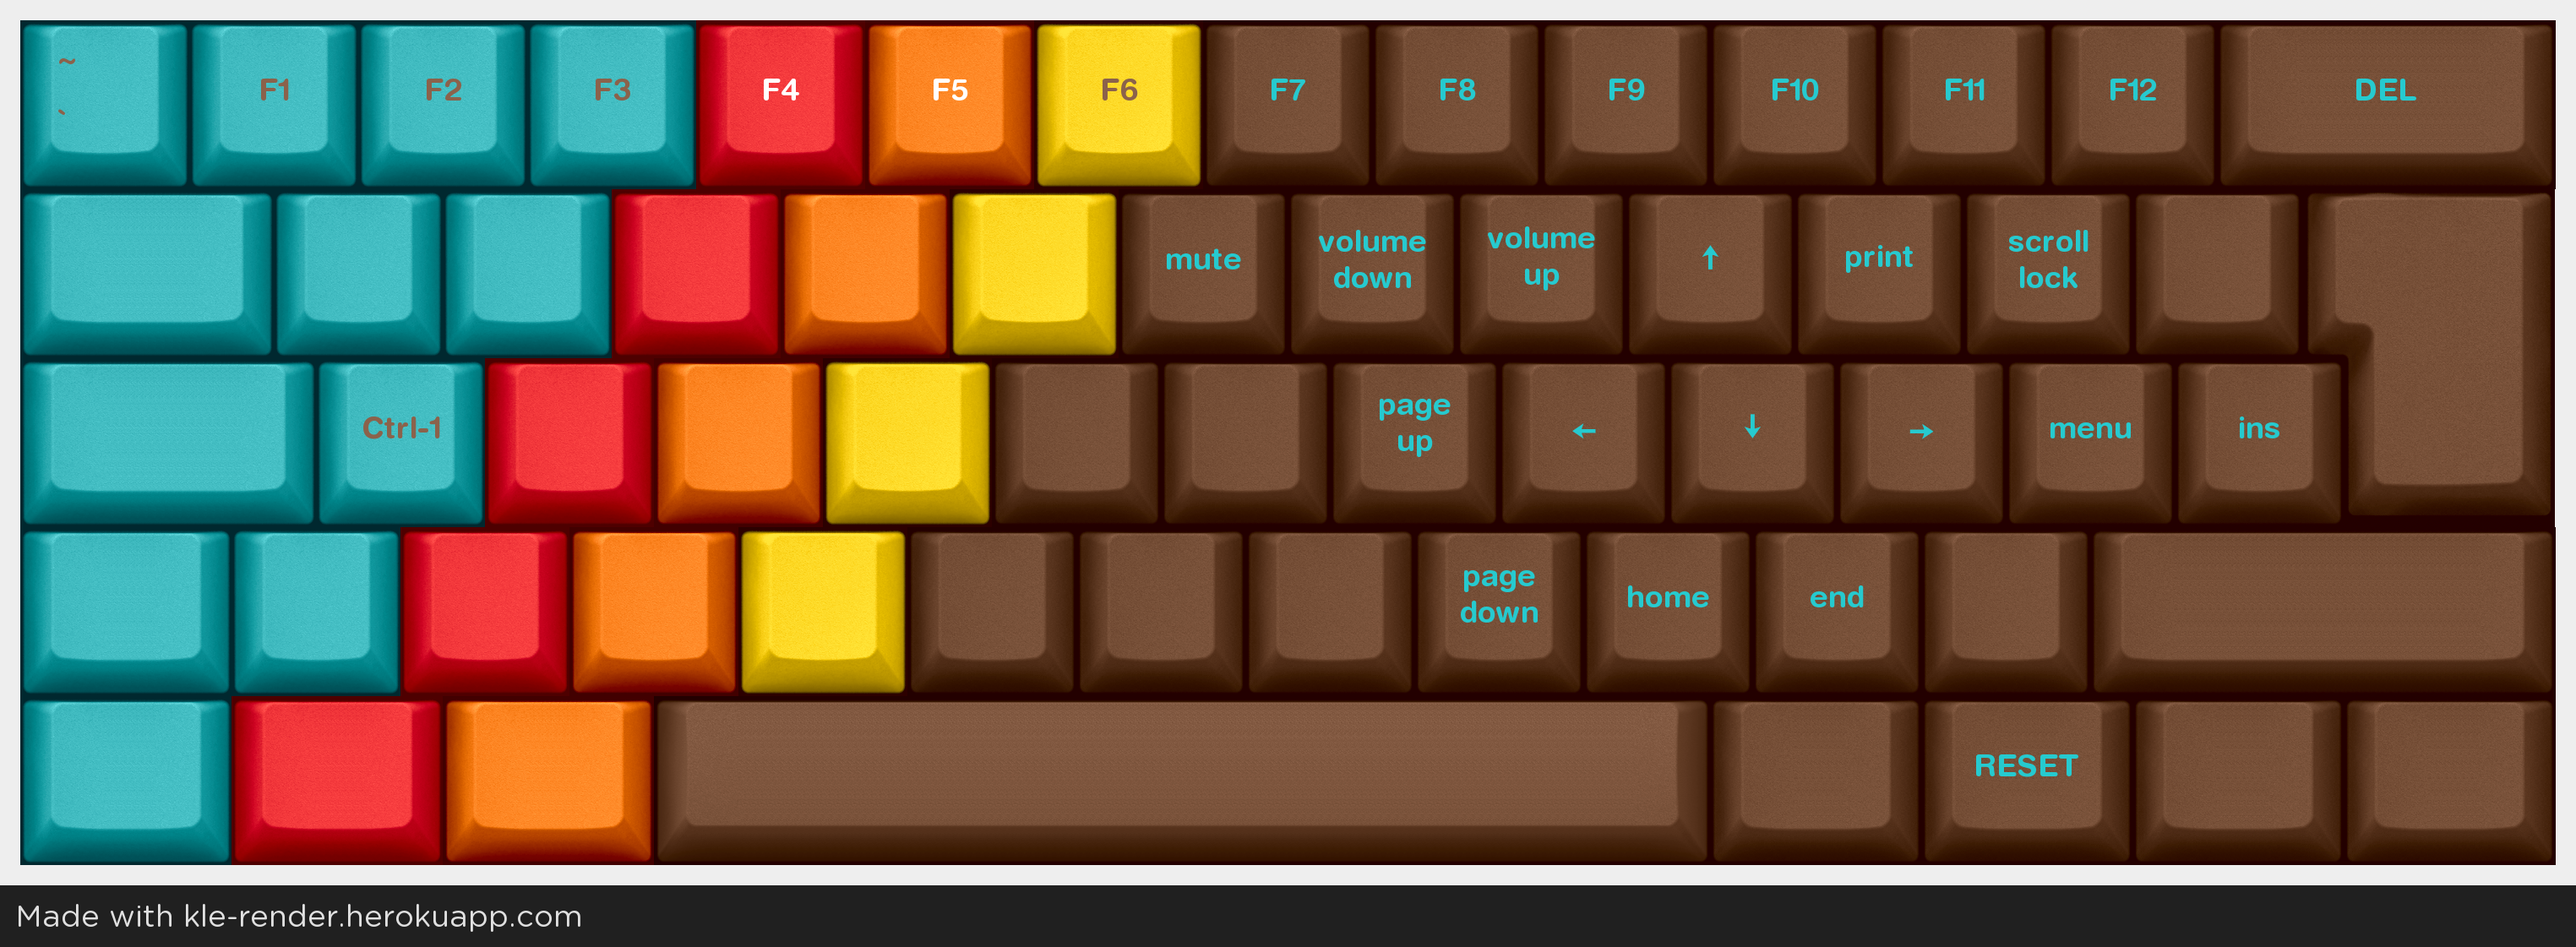
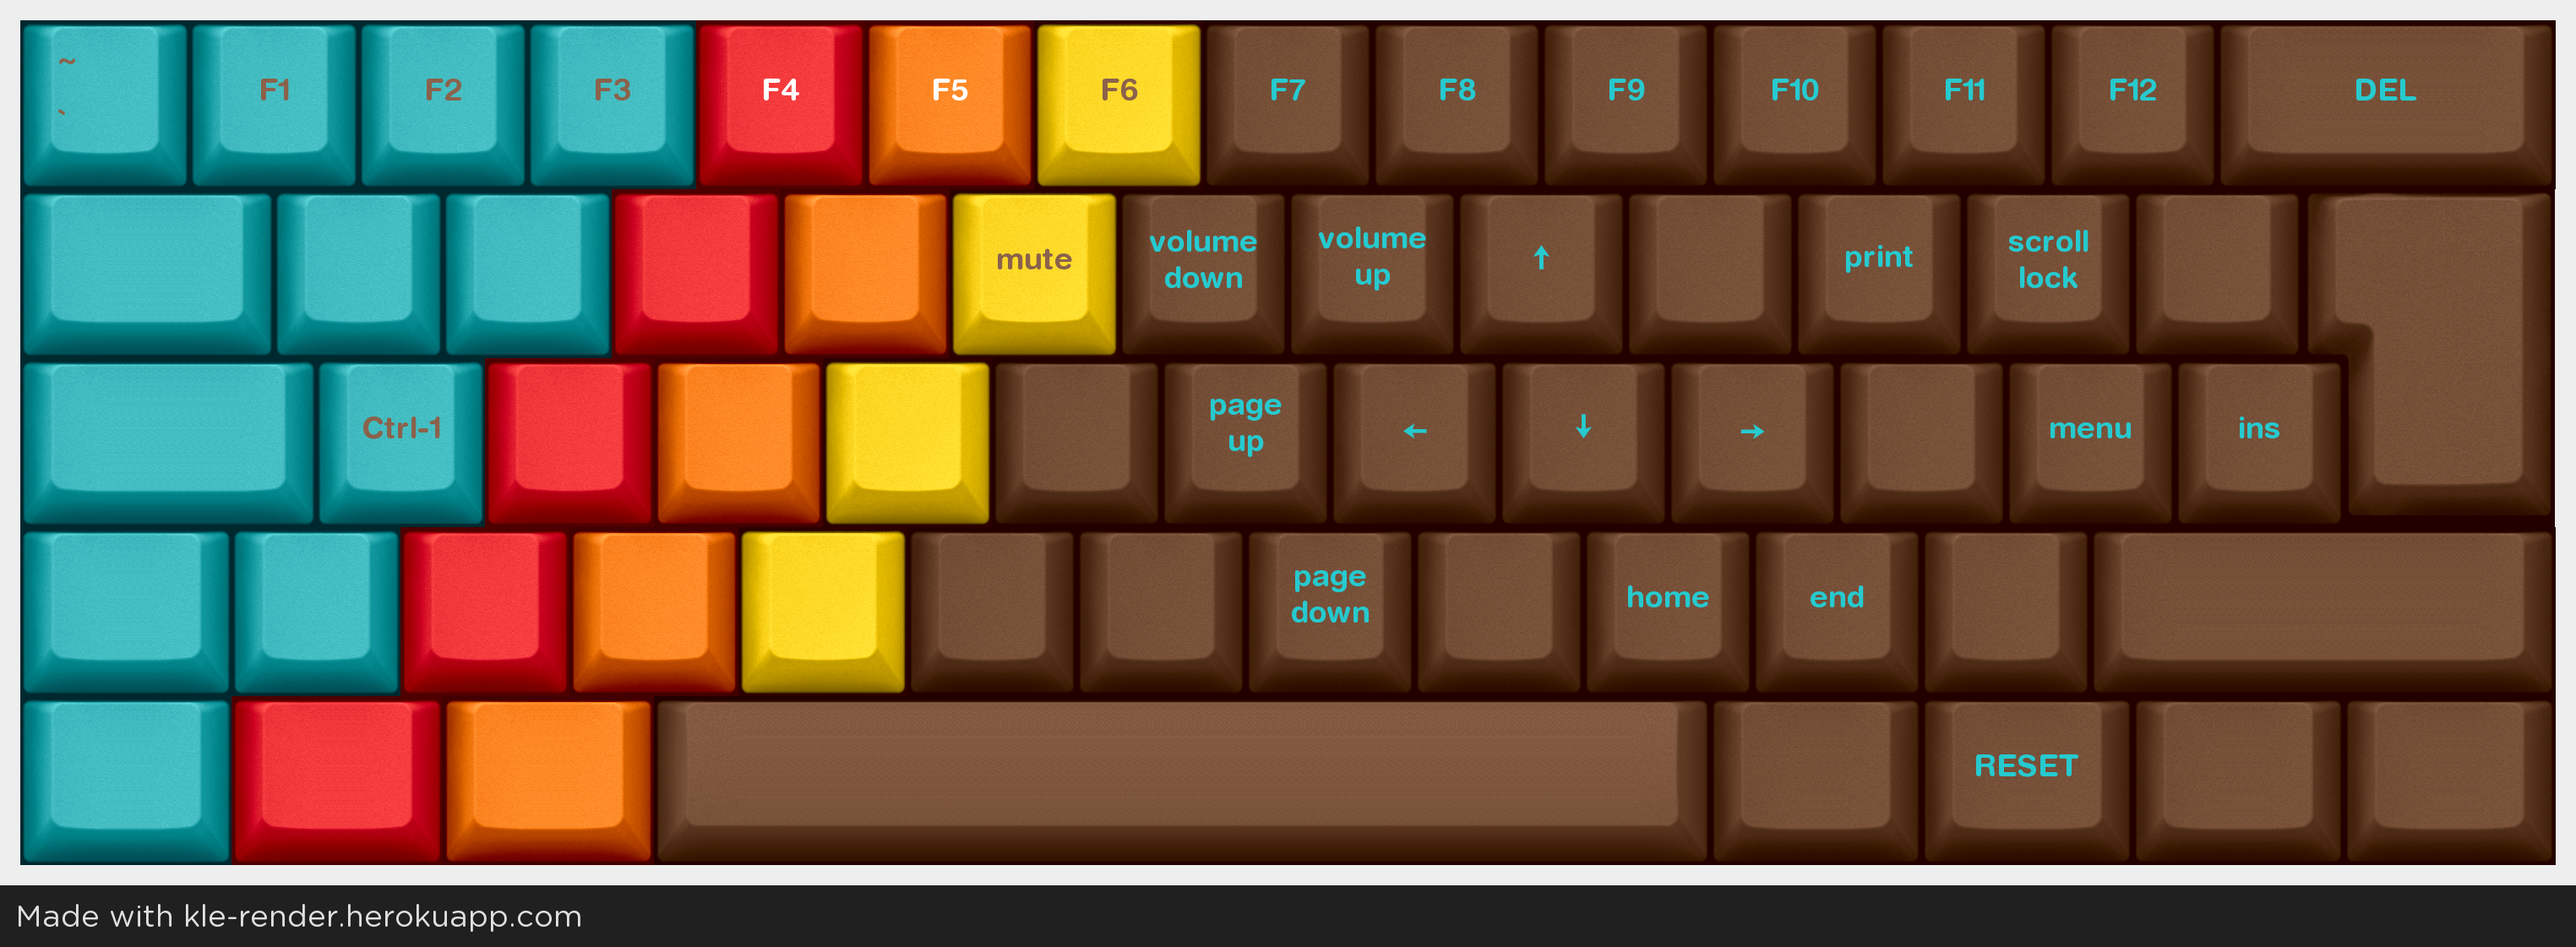
dz60 tweaks

diff --git a/keyboards/dz60/keymaps/fehmer/keymap.c b/keyboards/dz60/keymaps/fehmer/keymap.c
@@ -37,9 +37,9 @@ TD(TD_ESC_CAPS), KC_1,     KC_2,    KC_3,    KC_4,    KC_5,    KC_6,    KC_7,   
    * ,-----------------------------------------------------------.
    * | ^°| F1| F2| F3| F4| F5| F6| F7| F8| F9|F10|F11|F12|    DEL|
    * |-----------------------------------------------------------|
-   * |     |   |   |   |   |   |MUT|V-D|V-U| UP|PSC| SC|BRK|     |
+   * |     |   |   |   |   |MUT|V-D|V-U| UP|   |PSC| SC|BRK|     |
    * |-----------------------------------------------------------|
-   * |      |CT1|   |   |   |   |   |PGU|LFT|DWN|RGT|APP|INS|    |
+   * |      |CT1|   |   |   |   |PGU|LFT|DWN|RGT|   |APP|INS|    |
    * |-----------------------------------------------------------|
    * |    |   |   |   |   |   |   |   |PGD|HOM|END|   |          |
    * |-----------------------------------------------------------|
@@ -48,9 +48,9 @@ TD(TD_ESC_CAPS), KC_1,     KC_2,    KC_3,    KC_4,    KC_5,    KC_6,    KC_7,   
    */
   [_FN] = LAYOUT_60_iso(
     KC_GRAVE, KC_F1,   KC_F2,   KC_F3,   KC_F4,   KC_F5,   KC_F6,   KC_F7,   KC_F8,   KC_F9,   KC_F10,   KC_F11,  KC_F12,  KC_DEL,
-    _______,  _______, _______, _______, _______, _______, KC_MUTE, KC_VOLD, KC_VOLU, KC_UP,   KC_PSCR,  KC_SLCK, KC_PAUS,
-    _______,  C(KC_1), _______, _______, _______, _______, _______, KC_PGUP, KC_LEFT, KC_DOWN, KC_RIGHT, KC_APP,  KC_INS , _______,
-    _______,  _______, RGB_TOG, RGB_MOD, RGB_VAI, RGB_VAD, RGB_M_X , _______, KC_PGDN, KC_HOME, KC_END,   _______, _______,
+    _______,  _______, _______, _______, _______, KC_MUTE, KC_VOLD, KC_VOLU, KC_UP,   _______, KC_PSCR,  KC_SLCK, KC_PAUS,
+    _______,  C(KC_1), _______, _______, _______, _______, KC_PGUP, KC_LEFT, KC_DOWN, KC_RIGHT,_______,  KC_APP,  KC_INS , _______,
+    _______,  _______, RGB_TOG, RGB_MOD, RGB_VAI, RGB_VAD, RGB_M_X, KC_PGDN, _______, KC_HOME, KC_END,   _______, _______,
     _______,  _______, _______,                   _______,                                     _______,  RESET, _______,  _______
   ),
 
